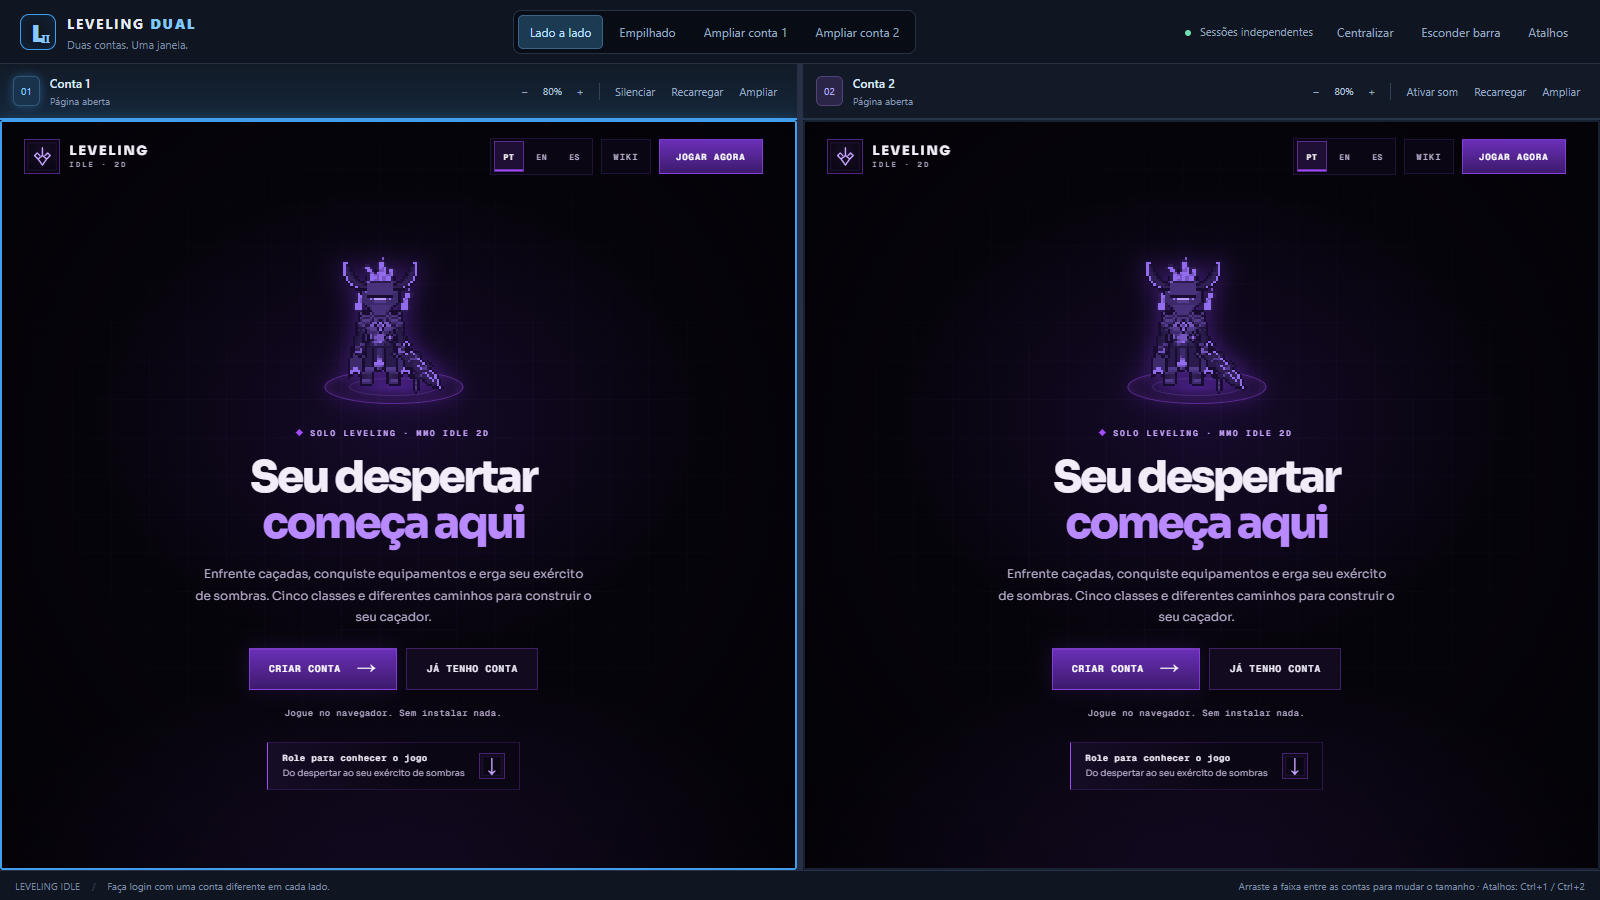
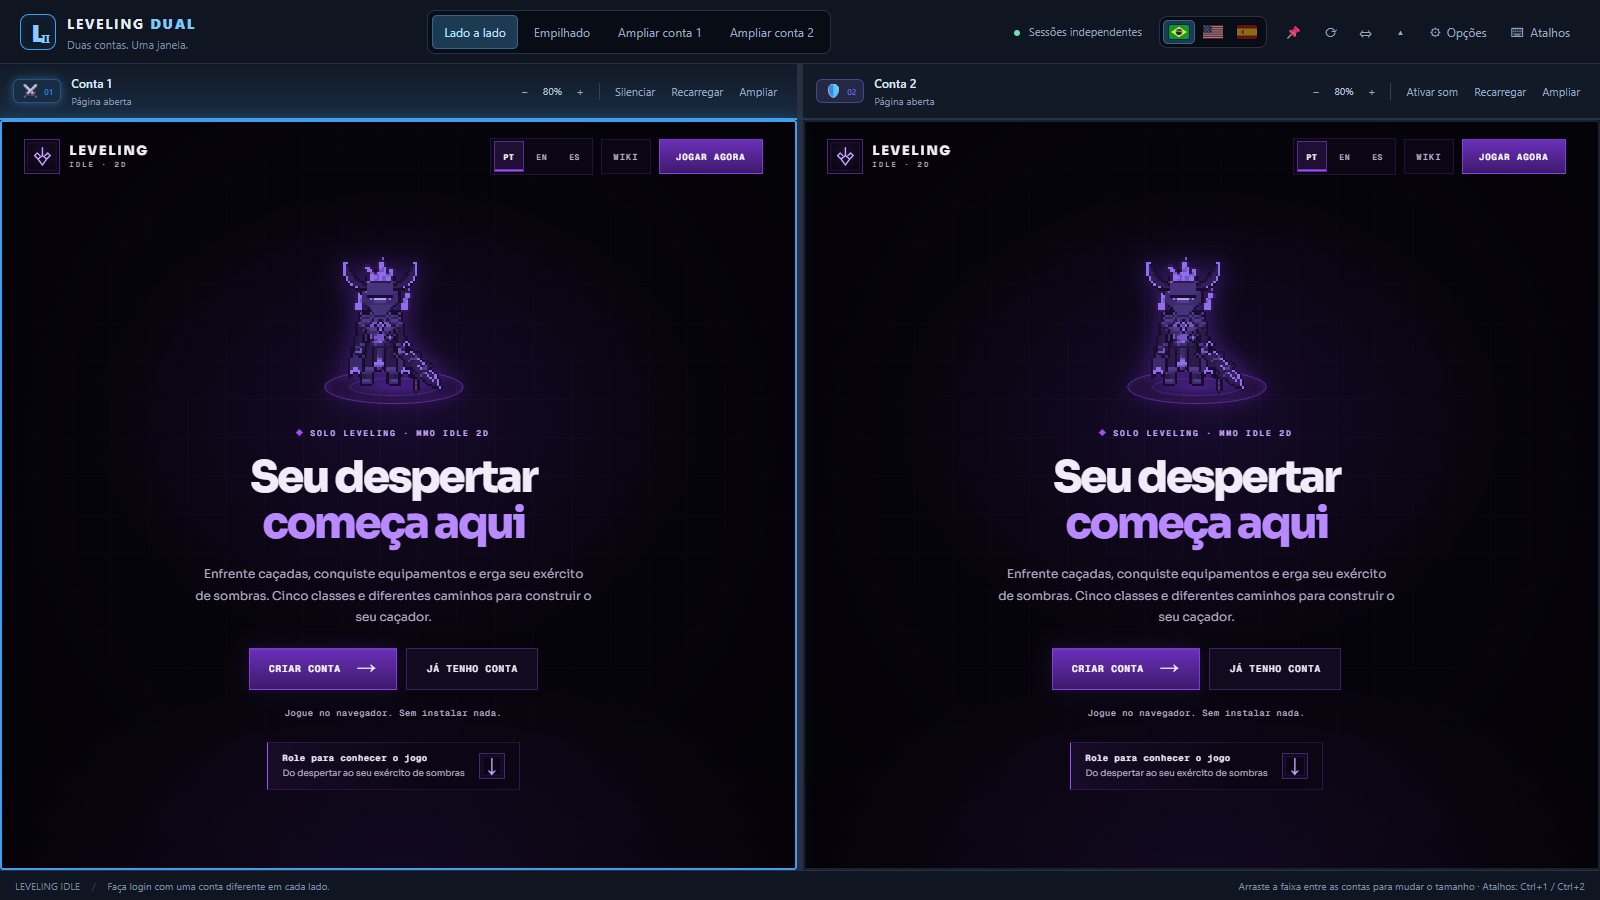
Add files via upload

Changed region(s): [[0.25, 0.0, 0.5938, 0.1244], [0.6562, 0.0, 0.9688, 0.0622], [0.0, 0.0622, 0.0938, 0.1244]]

diff --git a/README.md b/README.md
@@ -1,12 +1,16 @@
 <div align="center">
 
-# ⚔ Leveling Dual
+<img src="docs/icon.png" alt="" width="96">
+
+# Leveling Dual
 
 **Duas contas de Leveling Idle 2D. Uma janela.**
 
 [![Baixar](https://img.shields.io/github/v/release/bruno220218/leveling-dual?include_prereleases&label=baixar&style=for-the-badge&color=409eec)](https://github.com/bruno220218/leveling-dual/releases)
 ![Windows](https://img.shields.io/badge/Windows-10%20%7C%2011-1d3a53?style=for-the-badge&logo=windows&logoColor=white)
 [![Downloads](https://img.shields.io/github/downloads/bruno220218/leveling-dual/total?style=for-the-badge&color=8b7bff&label=downloads)](https://github.com/bruno220218/leveling-dual/releases)
+
+🇧🇷 Português · 🇺🇸 English · 🇪🇸 Español
 
 <img src="docs/preview.png" alt="Leveling Dual com duas contas lado a lado" width="900">
 
@@ -24,12 +28,26 @@
 | ↔ **Lado a lado ou empilhado** | Arraste a faixa entre as contas para dar mais espaço a uma delas; duplo clique centraliza. |
 | 🔍 **Ampliar uma conta** | Dá a janela inteira para uma conta sem fechar a outra. Esc volta. |
 | 🎯 **Conta ativa visível** | A borda colorida mostra qual conta recebe o teclado. |
+| 🎨 **Cor e ícone por conta** | Escolha uma cor e um ícone para cada conta e nunca mais confunda os personagens. |
+| 🌎 **Três idiomas** | Português, inglês e espanhol, trocando pelas bandeirinhas da barra. |
+| 📌 **Sempre no topo** | Mantém a janela por cima das outras para acompanhar enquanto faz outra coisa. |
+| ⟳ **Recarregar as duas** | Reabre o jogo nas duas contas de uma vez. |
+| 📊 **Uso de CPU e memória** | Mostra quanto cada conta está consumindo. Fica desligado até você ligar nas Opções. |
+| 🔔 **Aviso de versão nova** | Ao abrir, avisa quando sair uma versão nova aqui nas Releases. Não baixa nada sozinho. |
 | 🎚 **Controles por conta** | Nome, zoom, som e recarregar em cada lado. A segunda conta começa sem som. |
 | 🖥 **Barra escondível** | Ctrl+B esconde a barra e o rodapé para ganhar espaço. |
-| 💾 **Lembra tudo** | Tamanho da janela, divisão, nomes, zoom e som continuam iguais na próxima vez. |
+| 💾 **Lembra tudo** | Tamanho da janela, divisão, nomes, zoom, som, idioma, cores e ícones continuam iguais na próxima vez. |
 
 > [!IMPORTANT]
 > O jogo permite **no máximo 2 contas por pessoa**, então o aplicativo abre só duas. Usar mais contas pode dar banimento.
+
+## ⚙ Opções
+
+<div align="center">
+<img src="docs/opcoes.png" alt="Janela de opções: idioma, cor e ícone de cada conta e preferências gerais" width="760">
+</div>
+
+No botão **Opções** (ou clicando no ícone da conta) você escolhe o idioma, a cor e o ícone de cada conta e liga ou desliga: sempre no topo, uso de CPU e memória, pergunta antes de fechar e aviso de versão nova.
 
 ## 📥 Como usar
 
@@ -37,6 +55,8 @@
 2. Extraia o zip **inteiro** para uma pasta.
 3. Dê dois cliques em **`LevelingDual.exe`**.
 4. Entre na primeira conta no lado esquerdo e na segunda no lado direito.
+
+Quem já usava uma versão anterior continua com as mesmas contas logadas.
 
 > [!TIP]
 > Se o Windows mostrar "O Windows protegeu o computador", clique em **Mais informações → Executar assim mesmo**. O aviso aparece porque o aplicativo não tem assinatura paga da Microsoft.
@@ -49,8 +69,10 @@
 | <kbd>Ctrl</kbd> + <kbd>Tab</kbd> | Troca de conta |
 | <kbd>Ctrl</kbd> + <kbd>Shift</kbd> + <kbd>1</kbd> / <kbd>2</kbd> | Amplia a conta (<kbd>Esc</kbd> volta) |
 | <kbd>F5</kbd> ou <kbd>Ctrl</kbd> + <kbd>R</kbd> | Recarrega a conta ativa |
+| <kbd>Ctrl</kbd> + <kbd>Shift</kbd> + <kbd>R</kbd> | Recarrega as duas contas |
 | <kbd>Ctrl</kbd> + <kbd>M</kbd> | Liga ou desliga o som da conta ativa |
 | <kbd>Ctrl</kbd> + <kbd>+</kbd> / <kbd>−</kbd> / <kbd>0</kbd> | Zoom da conta ativa |
+| <kbd>Ctrl</kbd> + <kbd>T</kbd> | Sempre no topo |
 | <kbd>Ctrl</kbd> + <kbd>B</kbd> | Esconde ou mostra a barra |
 | <kbd>F11</kbd> | Tela cheia |
 
@@ -62,6 +84,7 @@ As teclas sem <kbd>Ctrl</kbd> continuam indo para o jogo normalmente.
 - As páginas do jogo rodam isoladas, sem acesso ao seu computador.
 - Links de fora do jogo abrem no seu navegador.
 - Não há macro, clique automático, proxy ou qualquer alteração no jogo. O teclado controla só a conta que você clicar.
+- O aviso de versão só consulta a lista pública de Releases deste repositório; nenhum dado seu é enviado.
 - O código-fonte vai junto em cada versão, no arquivo `Codigo-fonte.zip`.
 
 ## 👥 Créditos
